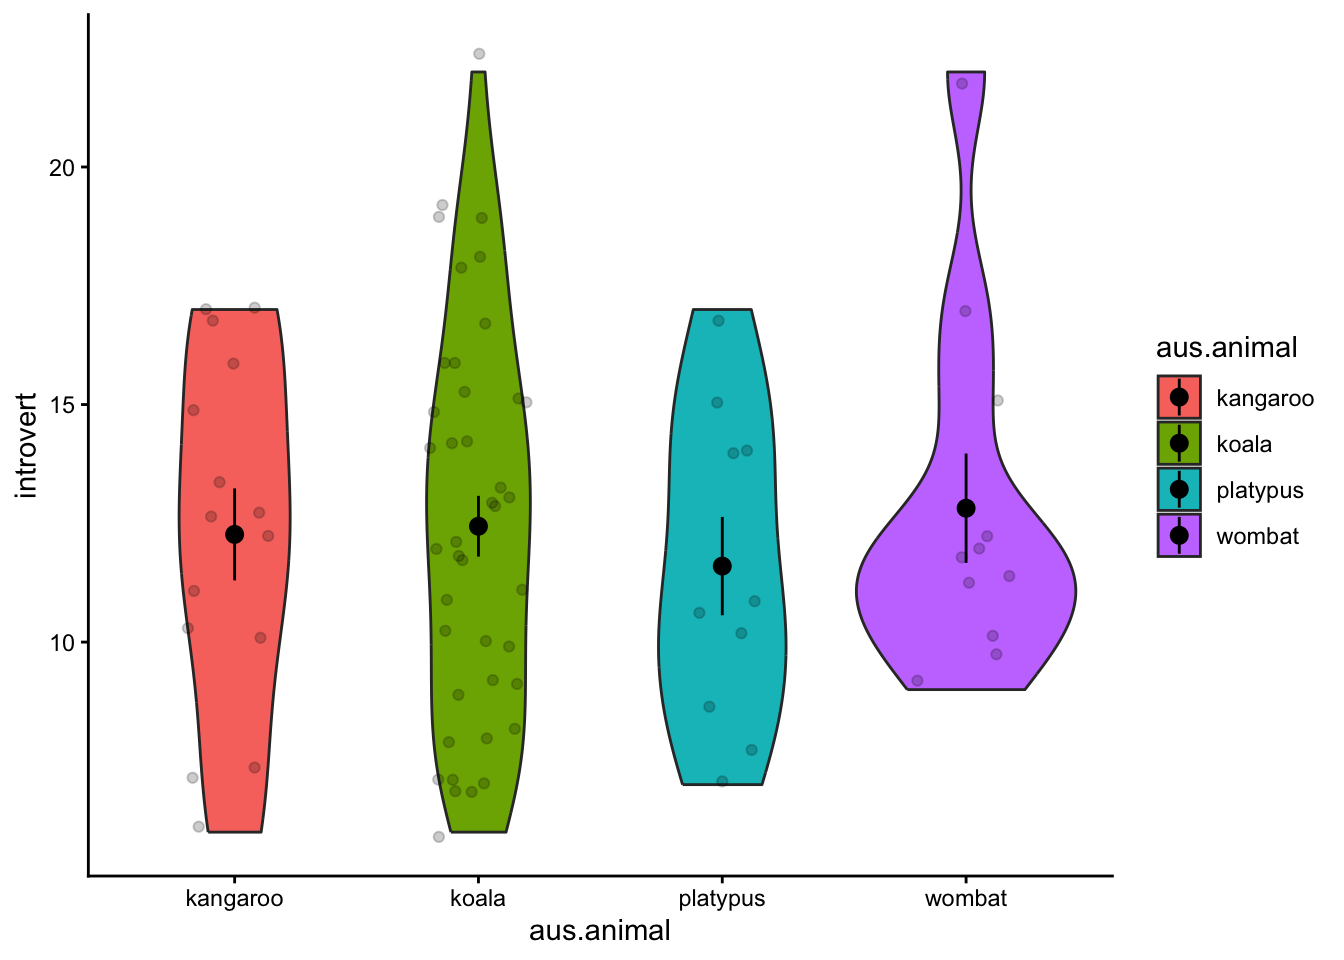
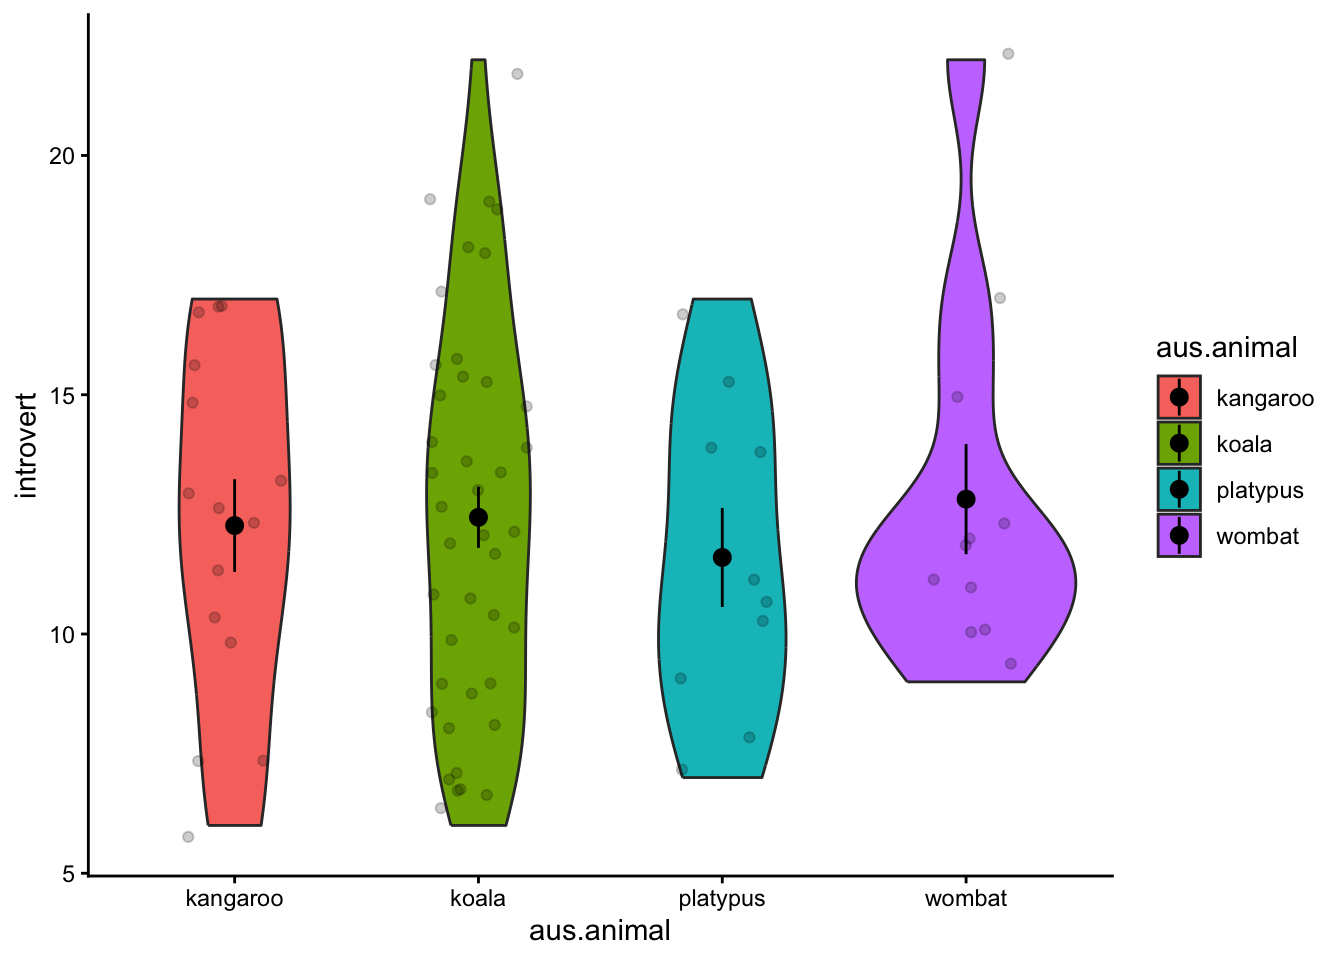
Update 18.10.26

diff --git a/4LM1.html b/4LM1.html
@@ -509,12 +509,10 @@ who want to learn something extra.</p>
   mutate( #introversion1R = recode(introversion1,`1` = 5,`2` = 4,`3`=3,`4` = 2,`5` = 1),
           introvert = introversion2 + introversion5 + introversion7 + introversion8 + introversion10) %&gt;%
   select(cat.dog,introvert)</code></pre>
-<p>In the code above, we have removed participants that did not specify
-identify as either a “dog-person” or “cat-person”. We have also used the
-<code>mutate()</code> function to calculate an overall introversion
-score. We have also only selected the variables we need for our analysis
-- this step is not strictly necessary, but can help you organise your
-data.</p>
+<p>In the code above, we have used the <code>mutate()</code> function to
+calculate an overall introversion score. We have also only selected the
+variables we need for our analysis - this step is not strictly
+necessary, but can help you organise your data.</p>
 </div>
 <div id="visualise-the-data." class="section level3">
 <h3>2. Visualise the data.</h3>
@@ -629,10 +627,10 @@ tidyverse functions. As covered in Demonstration 2,
 using functions like <code>mean()</code> and <code>sd()</code> to get
 the mean and standard deviation of a variable respectively. However, in
 order to calculate these statistics separately for different groups, we
-need to use the <code>group_by()</code> function.
-<code>group_by()</code> will group data based on a column, and perform
-all subsequent tidyverse functions separately for each group until you
-use the <code>ungroup()</code> function.</p>
+can use the <code>group_by()</code> function. <code>group_by()</code>
+will group data based on a column, and perform all subsequent tidyverse
+functions separately for each group until you use the
+<code>ungroup()</code> function.</p>
 <pre class="r"><code>data1.summary &lt;- data1.clean %&gt;%
   group_by(cat.dog) %&gt;%
   summarise(introvert_mean = mean(introvert,na.rm = TRUE),
@@ -685,9 +683,10 @@ in the IV (Koala, Kangaroo, Wombat, Platypus); therefore, a one-way
 ANOVA is the appropriate statistical test.</p>
 <div id="prepare-the-data-for-analysis.-1" class="section level3">
 <h3>1. Prepare the data for analysis.</h3>
-<p>The code below is identical to the code above, except we do not
-exclude participants who reported “both” or “neither” (these commands
-have been commented out below).</p>
+<p>In the code below, we calculate a total introversion score using the
+<code>mutate()</code> function, and we use the <code>filter()</code>
+function to remove those who indicated that the echidna was their
+favourite Australian animal.</p>
 <pre class="r"><code>data3.clean &lt;- data %&gt;%
   mutate(introvert = introversion2 + introversion5 + introversion7 + introversion8 + introversion10) %&gt;%
   filter(aus.animal != &quot;echidna&quot;) %&gt;%
@@ -706,8 +705,8 @@ to visualise the distributions for each group.</p>
 </div>
 <div id="run-the-statistical-test.-1" class="section level3">
 <h3>3. Run the statistical test.</h3>
-<p>We run the ANOVA using the <code>aov()</code> function. We can then
-pipe it to the <code>summary()</code> function to get interpretable
+<p>We run the ANOVA using the <code>aov()</code> function. We then pipe
+the result to the <code>summary()</code> function to get interpretable
 output.</p>
 <pre class="r"><code>aov(introvert ~ aus.animal,data = data3.clean) %&gt;%
   summary()</code></pre>
@@ -725,7 +724,7 @@ purposes.</p>
 However, when calling the data, we use the filter function to only
 select participants who are in one of two groups. The <code>|</code>
 symbol means ‘or’, so below, we are only analysing the data of
-participants who are in the dog ‘or’ cat group.</p>
+participants who are in the kangaroo ‘or’ koala groups.</p>
 <pre class="r"><code>t.test(introvert ~ aus.animal,data = filter(data3.clean,aus.animal == &quot;kangaroo&quot; | aus.animal == &quot;koala&quot;))</code></pre>
 <pre><code>## 
 ##  Welch Two Sample t-test
@@ -738,7 +737,8 @@ participants who are in the dog ‘or’ cat group.</p>
 ## sample estimates:
 ## mean in group kangaroo    mean in group koala 
 ##               12.26667               12.43902</code></pre>
-<p>Now, we are only including participants in the dog or both group:</p>
+<p>Now, we are only including participants in the kangaroo or platypus
+groups:</p>
 <pre class="r"><code>t.test(introvert ~ aus.animal,data = filter(data3.clean,aus.animal == &quot;kangaroo&quot; | aus.animal == &quot;platypus&quot;))</code></pre>
 <pre><code>## 
 ##  Welch Two Sample t-test
@@ -891,7 +891,7 @@ missing data on either variable.</p>
 <p>We can plot the data using a violin plot, the same way we visualised
 the data for an independent-samples t-test. However, this does not give
 an indication of the change in scores within a participant. One way to
-represent this graphically, is to plot the data point for each
+represent this graphically is to plot the data point for each
 participant, and include a line between their scores across the two
 conditions. We also adjust the opacity of the points and lines using the
 <code>alpha</code> aesthetic, just so that the graph isn’t a complete
@@ -973,24 +973,14 @@ method. So the code looks like:</p>
 the mean and standard deviation for each condition. This code is exactly
 the same as above.</p>
 <pre class="r"><code>data2.summary &lt;- data2.clean %&gt;%
-  summarise(pre.mean = mean(pre.mood),
-            pre.sd = sd(pre.mood),
-            post.mean = mean(pre.mood),
-            post.sd = sd(post.mood))
+  summarise(pre.mean = mean(pre.mood,na.rm = TRUE),
+            pre.sd = sd(pre.mood,na.rm = TRUE),
+            post.mean = mean(pre.mood,na.rm = TRUE),
+            post.sd = sd(post.mood,na.rm = TRUE))
 
 data2.summary</code></pre>
 <pre><code>##   pre.mean   pre.sd post.mean  post.sd
 ## 1 69.51899 17.85616  69.51899 20.91543</code></pre>
-<p>Or if you have not reshaped the data:</p>
-<pre class="r"><code>data2.summary &lt;- data2.clean %&gt;%
-  summarise(pre.mean = mean(pre.mood,na.rm = TRUE),
-            pre.sd = sd(pre.mood,na.rm = TRUE),
-            pst.mean = mean(post.mood,na.rm = TRUE),
-            pst.sd = sd(post.mood,na.rm = TRUE))
-
-data2.summary</code></pre>
-<pre><code>##   pre.mean   pre.sd pst.mean   pst.sd
-## 1 69.51899 17.85616 76.82278 20.91543</code></pre>
 <p>We also need the effect size, which is Cohen’s d. Again, we can use
 the <code>cohens_d()</code> function from the <code>effectsize</code>
 package.</p>
@@ -1001,7 +991,7 @@ package.</p>
 <blockquote>
 <p>A paired-samples t-test found that there was a significant difference
 on mood before (<em>M</em> = 69.52, <em>SD</em> = 17.86) and after
-(<em>M</em> = 76.82 , <em>SD</em> = 20.92) viewing a cute cat video,
+(<em>M</em> = 69.52 , <em>SD</em> = 20.92) viewing a cute cat video,
 <em>t</em>(78) = -4.79, <em>p</em> &lt; .001, Cohen’s <em>d</em> =
 -0.54.</p>
 </blockquote>
